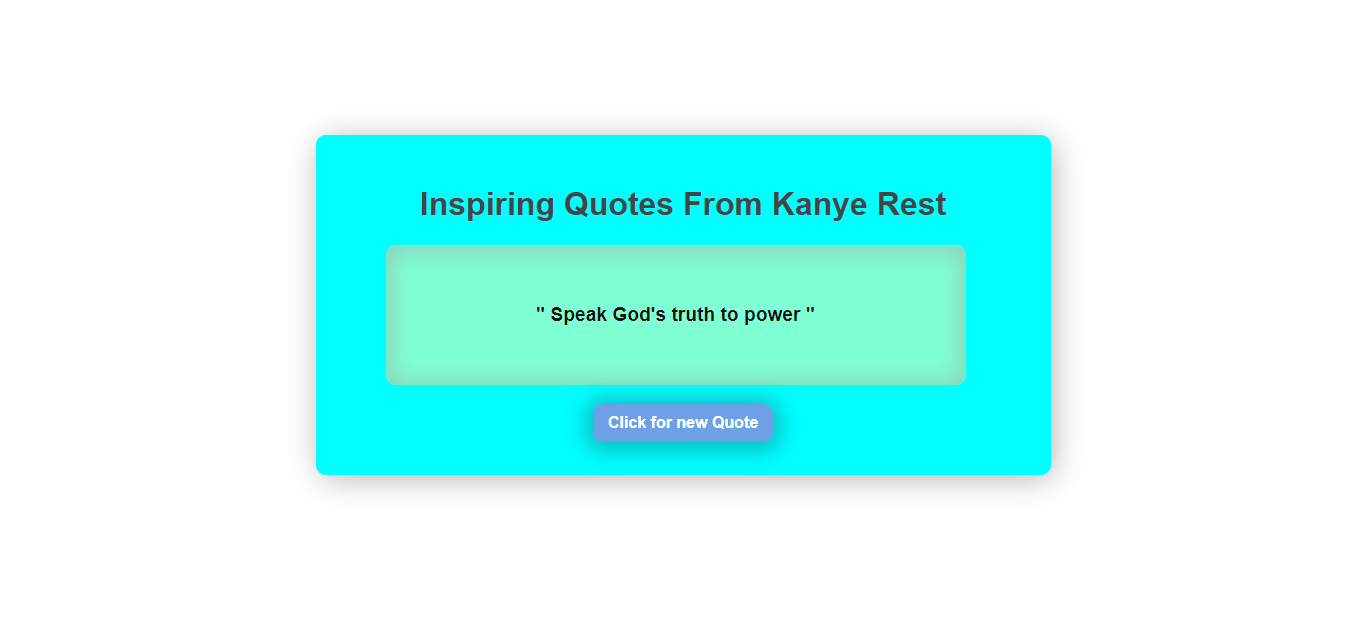
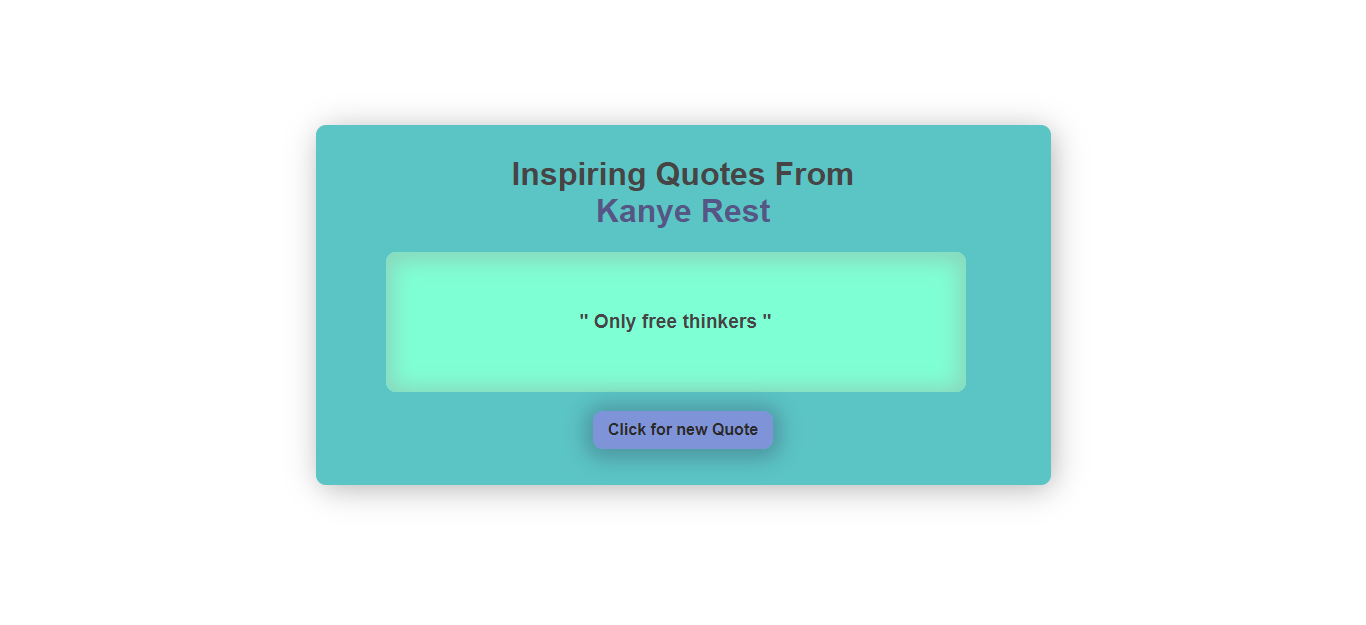
style change

Changed region(s): [[0.2152, 0.1824, 0.7687, 0.7904], [0.3997, 0.4864, 0.5842, 0.5472]]

diff --git a/style.css b/style.css
@@ -9,11 +9,11 @@ body {
 }
 
 .container {
-    background-color: aqua;
-    height: 280px;
+    background-color: rgb(91, 196, 196);
+    height: 320px;
     width: 50%;
     text-align: center;
-    padding: 30px;
+    padding: 10px 30px 30px 30px;
     border-radius: 10px;
     box-shadow: 3px 4px 31px -3px rgba(146, 146, 146, 0.75);
 }
@@ -28,7 +28,6 @@ body {
     background-color: #7fffd4;
     font-size: 1.2rem;
     border-radius: 10px;
-    color: rgb(19, 18, 18);
     font-weight: bold;
     box-shadow: 0px 2px 20px 8px #88d8bd inset;
 }
@@ -38,7 +37,7 @@ button {
     border-radius: 10px;
     border: none;
     background-color: rgba(136, 136, 221, .8);
-    color: white;
+    color: rgb(43, 41, 41);
     font-weight: bold;
     font-size: 1em;
     box-shadow: 0px 2px 20px 8px rgba(42, 42, 83, 0.3);
@@ -48,4 +47,9 @@ button:hover {
     background-color: rgba(136, 136, 221, .9);
     cursor: pointer;
     box-shadow: 0px 2px 20px 8px rgba(42, 42, 83, 0.5);
+}
+
+span {
+    color: rgb(86, 86, 134);
+    display: block;
 }

diff --git a/index.html b/index.html
@@ -13,7 +13,7 @@
     <div class="container">
 
         <Header>
-            <h1>Inspiring Quotes From Kanye Rest</h1>
+            <h1>Inspiring Quotes From <span> Kanye Rest </span></h1>
         </Header>
         <main>
             <blockquote id="quote">
